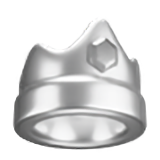
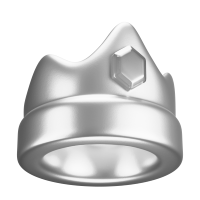
Fix: 이미지 고화질 교체 및 홈버튼 추가

diff --git a/src/components/PageLayout/PageLayout.tsx b/src/components/PageLayout/PageLayout.tsx
@@ -3,6 +3,7 @@ import * as S from './style';
 import SideBar from '@/components/SideBar/SideBar'
 import HamburgerButton from '../Button/HamburgerButton/HamburgerButton';
 import SnowFalling from '../SnowFalling/SnowFalling';
+import HomeButton from '../Button/HomeButton/HomeButton';
 
 interface Props {
   children: React.ReactNode;
@@ -22,7 +23,8 @@ export default function PageLayout({ children, title }: Props) {
     <S.Layout>
     <SnowFalling />
       <S.Wrapper>
-        <HamburgerButton onClick={() => handleHamburgerClick()} /> {/* 클릭 이벤트 핸들러 추가 */}
+        <HamburgerButton onClick={() => handleHamburgerClick()} />
+        <HomeButton />
         <S.Title>
           {title}
         </S.Title>

diff --git a/src/components/Button/HomeButton/HomeButton.tsx b/src/components/Button/HomeButton/HomeButton.tsx
@@ -1,0 +1,20 @@
+import React from 'react';
+import Button from '../Button'; // Adjust the import path as needed
+import HomeButtonImg from '@/assets/Button/HomeButton.png';
+import * as S from './style'
+import {HomeButtonProps} from "@/interfaces/button"
+
+
+export default function HomeButton(props: HomeButtonProps) {
+    return(
+        <S.HomeButtonWrapper>
+            <Button
+                {...props}
+                type="button"
+                width={30}
+                height={30}
+                background={HomeButtonImg}
+            />
+        </S.HomeButtonWrapper>
+    )
+}

diff --git a/src/components/Button/HomeButton/style.ts b/src/components/Button/HomeButton/style.ts
@@ -1,0 +1,16 @@
+import styled from 'styled-components';
+
+export const HomeButtonWrapper = styled.div`
+    background-size: 40px 40px;
+    background-repeat: no-repeat;
+    background-size: contain;
+    width: 30px;  // 버튼 크기 조정
+    height: 30px; // 버튼 크기 조정
+    border: none;
+    cursor: pointer;
+    position: absolute;
+    top: 30px;    // 상단에서의 위치
+    left: 25px;   // 좌측에서의 위치
+    z-index: 2;
+    background-color: transparent;
+`;

diff --git a/src/interfaces/button.ts b/src/interfaces/button.ts
@@ -22,6 +22,9 @@ export interface ButtonProps {
   export interface BellButtonProps extends Partial<ButtonProps> {
   }
 
+  export interface HomeButtonProps extends Partial<ButtonProps> {
+  }
+
   export interface LogoutButtonProps extends Partial<ButtonProps> {
   }
 
